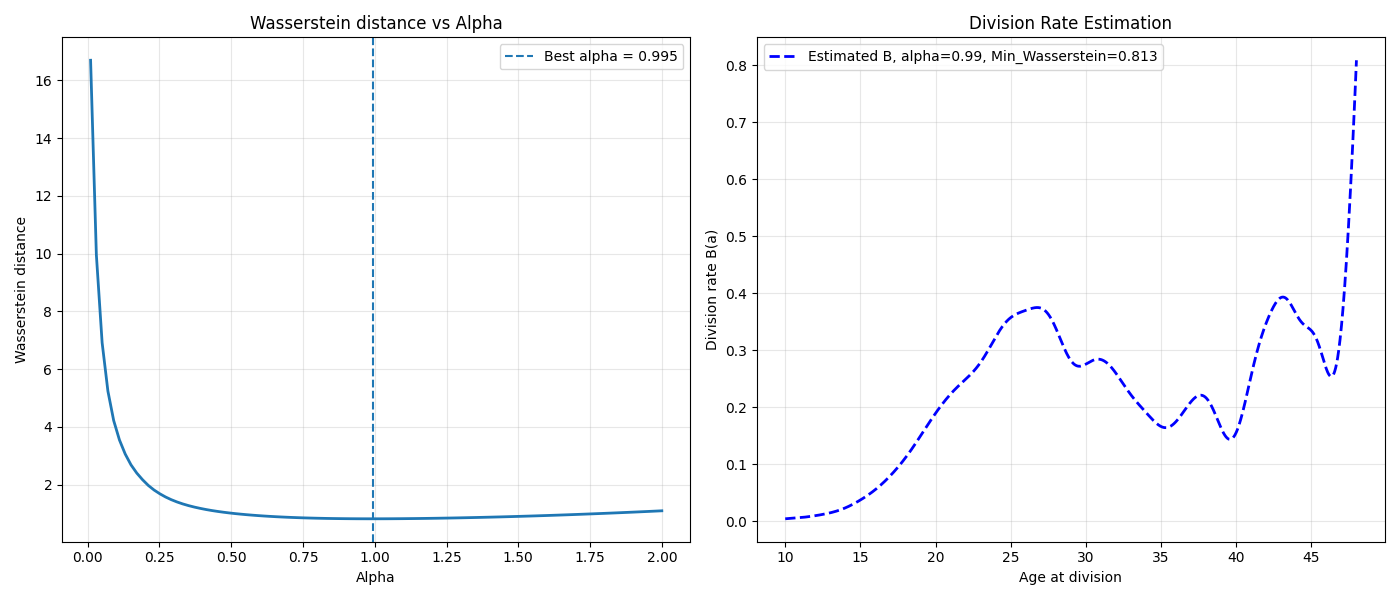
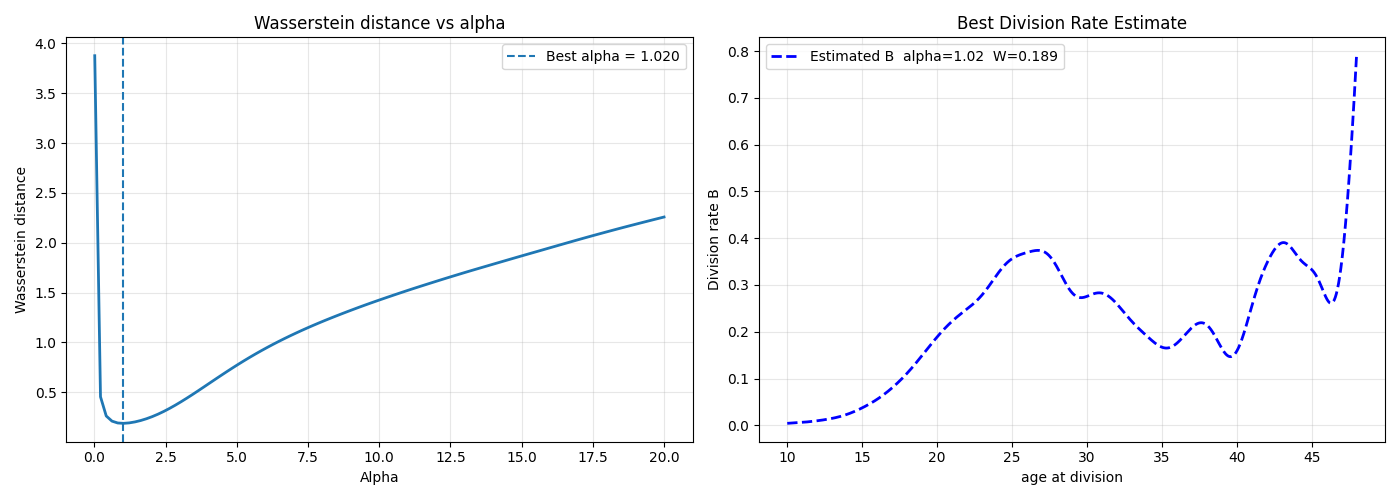
estimators on real data are functional but pb with scale

diff --git a/tmp_estimators.py b/tmp_estimators.py
@@ -1,84 +1,64 @@
 import numpy as np
-from scipy.stats import wasserstein_distance
+from scipy.stats import wasserstein_distance 
 from tqdm import tqdm
-import matplotlib.pyplot as plt
 import pandas as pd
 
-from simulation import simulate_lineage_age
-from estimators import B_lineage_age
+from plots import plot_main_results
+from simulation import simulate_lineage_age, simulate_lineage_size
+from estimators import B_lineage_age, B_lineage_size
 
 
 # we want to optimize the kernel regression with cdf to minimize wasserstein distance.abs
 
-def grid_search_alpha(observations, alpha_grid, simulator, growth_rate, a_max, Xbar):
+def grid_search_alpha(observations, estimator, alpha_grid, simulator, growth_rate, v_max, Xbar):
     obs = np.asarray(observations)
     results=[]
     best_alpha=None
     min_dist = float('inf')
     for alpha in tqdm(alpha_grid):
         np.random.seed(42) #same randomness for all samples
-        B_hat = B_lineage_age(obs, alpha)[1] #[1] for function instead of np.array
-        simulated_data = simulator(Xbar, a_max, B_hat, growth_rate, len(obs))[:,0]
-        dist = wasserstein_distance(obs, simulated_data)
+        B_hat = estimator(obs, alpha)[1] #[1] for function instead of np.array
+        simulated_data = simulator(Xbar=Xbar, v_max=v_max, B_func=B_hat, growth_rate=growth_rate, num_samples=len(obs))[:,0]
+        dist = wasserstein_distance(obs, simulated_data) / np.std(obs)
         results.append(dist)
 
         if dist < min_dist:
             min_dist = dist
             best_alpha = alpha
             Best_B_hat = B_hat
-    print("minimum distance:", min_dist)
+    print("normalized minimum distance:", min_dist)
+    print("best alpha:", best_alpha)
         
     return best_alpha, np.asarray(results), Best_B_hat
 
 
-N=2000
+if __name__ == "__main__":
 
-PATH_LIN = "data/lin_Lydia2901_new_MDJ_ad_sb_sd.txt"
-lin = pd.read_csv(PATH_LIN, header=None, names=["ad", "sb", "sd"])
-real_A = lin["ad"]
-real_Xb = lin["sb"]
-real_Xd = lin["sd"]
-a_max = np.max(real_A)
-Xbar = np.mean(real_Xb)
-#print("real a_max:", a_max, "/ real X_bar:", Xbar)
+    test_age = True
+    test_size = True
 
-growth_rate = 0.032 #according to regression
+    PATH_LIN = "data/lin_Lydia2901_new_MDJ_ad_sb_sd.txt"
+    lin = pd.read_csv(PATH_LIN, header=None, names=["ad", "sb", "sd"])
+    real_A = lin["ad"]
+    real_Xb = lin["sb"]
+    real_Xd = lin["sd"]
+    a_max = np.max(real_A)
+    Xbar = np.mean(real_Xb)
+    x_max = np.max(real_Xd)
 
-alpha_grid = np.linspace(0.01, 2, 100)
+    growth_rate = 0.032 #according to regression
+    alpha_grid = np.linspace(0.01, 20, 100)
 
 
-best_alpha, dist_hist, Best_B_hat = grid_search_alpha(real_A, alpha_grid, simulate_lineage_age, growth_rate, a_max, Xbar)
+    
 
-print("best alpha:", best_alpha)
-print("min dist:", np.min(dist_hist))
-
-# Plotting
-fig, axes = plt.subplots(1, 2, figsize=(14, 6))
-
-# --- Left: Wasserstein history ---
-axes[0].plot(alpha_grid, dist_hist, lw=2)
-axes[0].axvline(best_alpha, linestyle='--', label=f'Best alpha = {best_alpha:.3f}')
-axes[0].set_title("Wasserstein distance vs Alpha")
-axes[0].set_xlabel("Alpha")
-axes[0].set_ylabel("Wasserstein distance")
-axes[0].grid(True, alpha=0.3)
-axes[0].legend()
-
-# --- Right: B vs B_hat ---
-age_points = np.linspace(min(real_A), max(real_A), len(real_A))
-axes[1].plot(age_points, Best_B_hat(age_points), color='blue', linestyle='--', lw=2,
-             label=f'Estimated B, alpha={best_alpha:.2f}, Min_Wasserstein={np.min(dist_hist):.3f}')
-axes[1].set_title('Division Rate Estimation')
-axes[1].set_xlabel("Age at division")
-axes[1].set_ylabel("Division rate B(a)")
-axes[1].grid(True, alpha=0.3)
-axes[1].legend()
-
-# Layout
-plt.tight_layout()
-
-output_path = "outputs/7_kernel_lineage_age.png"
-plt.savefig(output_path)
-
-# with B_power=2, we have huge variance at large ages, not surprising because we have very few samples of old ages given this form of B
-
+    if test_age:
+        #  (we can add the other plots to compare all the distributions!!)
+        best_alpha, dist_hist, Best_B_hat = grid_search_alpha(real_A, B_lineage_age, alpha_grid, simulate_lineage_age, growth_rate, a_max, Xbar)
+        output_path = "7_kernel_lineage_age.png"
+        plot_main_results(alpha_grid, dist_hist, best_alpha, real_A, Best_B_hat, output_path, "age")
+    
+    if test_size:
+        best_alpha, dist_hist, Best_B_hat = grid_search_alpha(real_Xb, B_lineage_size, alpha_grid, simulate_lineage_size, growth_rate, x_max, Xbar)
+        output_path = "7_kernel_lineage_size.png"
+        plot_main_results(alpha_grid, dist_hist, best_alpha, real_Xb, Best_B_hat, output_path, "size")

diff --git a/simulation.py b/simulation.py
@@ -5,6 +5,7 @@ from scipy.integrate import cumulative_trapezoid
 import pandas as pd
 from tqdm import tqdm
 
+# attention, functions in age and size do not have the same order of parameters
 
 np.random.seed(42)
 
@@ -26,8 +27,8 @@ def sample_age_division(B_func, a_max, num_samples):
     
     return sampler
 
-def simulate_lineage_age(Xbar, a_max, B_func, growth_rate, num_samples, burn_in=200):
-    sampler = sample_age_division(B_func, a_max, num_samples)
+def simulate_lineage_age(Xbar, v_max, B_func, growth_rate, num_samples, burn_in=200):
+    sampler = sample_age_division(B_func, v_max, num_samples)
     all_ages = sampler(num_samples + burn_in)
     X_current = Xbar
     A, Xb, Xd = [], [], []
@@ -44,19 +45,22 @@ def simulate_lineage_age(Xbar, a_max, B_func, growth_rate, num_samples, burn_in=
 
 def sample_size_division(B_func, x_max, num_samples):
 
+    grid = np.linspace(0, x_max, num_samples)
+    B_vals = B_func(grid)
+    H_vals = cumulative_trapezoid(B_vals, grid, initial=0)
+    H_interp = interp1d(grid, H_vals, kind='linear',bounds_error=False,fill_value=(grid[0], grid[-1]))
+    H_inv = interp1d(H_vals, grid, kind='linear',bounds_error=False,fill_value=(H_vals[0], H_vals[-1]))
+    
     def sampler(x_birth):
         U = np.random.uniform(0, 1)
-        local_grid = np.linspace(x_birth, x_max, num_samples)
-        B_local = B_func(local_grid)
-        H_local = cumulative_trapezoid(B_local, local_grid, initial=0)
-        H_local_inv = interp1d(H_local, local_grid, kind='linear',bounds_error=False,fill_value=(local_grid[0], local_grid[-1]))
-        return float(H_local_inv(-np.log(U)))
+        target = H_interp(x_birth) - np.log(U)
+        return float(H_inv(target))
 
     return sampler
 
-def simulate_lineage_size(Xbar, B_func, growth_rate, num_samples, x_max, burn_in=200):
+def simulate_lineage_size(Xbar, B_func, growth_rate, num_samples, v_max, burn_in=200):
 
-    sampler = sample_size_division(B_func, x_max, num_samples)
+    sampler = sample_size_division(B_func, v_max, num_samples)
 
     X_current = Xbar
     A, Xb, Xd = [], [], []

diff --git a/plots.py b/plots.py
@@ -90,7 +90,7 @@ def plot_main_results(alpha_grid, dist_hist, best_alpha, real_data, Best_B_hat, 
     axes[0].legend()
 
     # Best B_hat
-    axes[1].plot(points, Best_B_hat, color="blue", lw=2, ls="--",
+    axes[1].plot(points, Best_B_hat(points), color="blue", lw=2, ls="--",
                  label=f"Estimated B  alpha={best_alpha:.2f}  W={min_dist:.3f}")
     axes[1].set_title("Best Division Rate Estimate")
     axes[1].set_xlabel(f"{age_or_size} at division")
